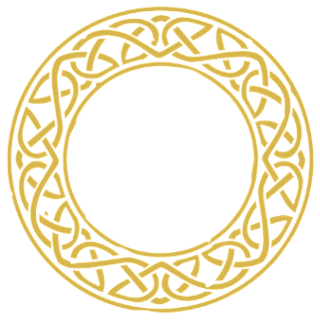
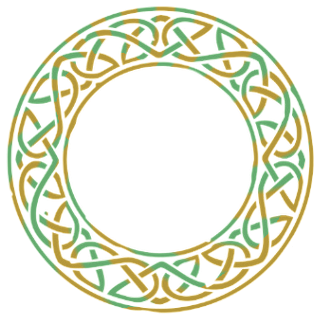
Weave light green into Celtic rings and refine the Shows mug clink.

Changed region(s): [[0.0, 0.0, 1.0, 1.0]]

diff --git a/src/index.css b/src/index.css
@@ -884,36 +884,57 @@ select {
 
 .shows-cheers {
   position: absolute;
-  top: 0.75rem;
-  left: clamp(0.5rem, 2vw, 1.5rem);
+  top: clamp(6.5rem, 14vh, 9.5rem);
+  left: clamp(0.35rem, 1.5vw, 1.25rem);
   z-index: 2;
   display: flex;
   align-items: flex-end;
-  gap: 0.15rem;
-  width: clamp(7.5rem, 16vw, 10.5rem);
+  justify-content: center;
+  gap: 0;
+  width: clamp(11.5rem, 24vw, 16.5rem);
   pointer-events: none;
 }
 
 .shows-cheers__mug {
-  width: 48%;
+  width: 52%;
   height: auto;
   display: block;
-  filter: drop-shadow(0 6px 12px rgba(0, 0, 0, 0.35));
-  transform-origin: bottom center;
+  filter: drop-shadow(0 8px 16px rgba(0, 0, 0, 0.4));
+  will-change: transform;
 }
 
 .shows-cheers__mug--left {
-  animation: mug-clink-left 2.8s ease-in-out infinite;
+  transform-origin: 70% 90%;
+  margin-right: -0.35rem;
+  animation: mug-clink-left 3.6s cubic-bezier(0.45, 0.05, 0.25, 1) infinite;
 }
 
 .shows-cheers__mug--right {
-  animation: mug-clink-right 2.8s ease-in-out infinite;
+  transform-origin: 30% 90%;
+  margin-left: -0.35rem;
+  animation: mug-clink-right 3.6s cubic-bezier(0.45, 0.05, 0.25, 1) infinite;
 }
 
 .shows-page > .page-hero,
 .shows-page > .section {
   position: relative;
   z-index: 1;
+}
+
+@media (max-width: 700px) {
+  .shows-cheers {
+    top: clamp(5.5rem, 12vh, 7.5rem);
+    width: clamp(9.5rem, 42vw, 12.5rem);
+  }
+
+  .shows-page > .page-hero {
+    padding-left: clamp(10rem, 48vw, 13rem);
+    text-align: left;
+  }
+
+  .shows-page > .page-hero .gold-rule--center {
+    margin-left: 0;
+  }
 }
 
 .shows-list {
@@ -1508,33 +1529,41 @@ select {
 
 @keyframes mug-clink-left {
   0%,
+  18% {
+    transform: rotate(-14deg) translate3d(0, 0, 0);
+  }
+  42% {
+    transform: rotate(-3deg) translate3d(8%, -2%, 0);
+  }
+  50% {
+    transform: rotate(1deg) translate3d(12%, -3%, 0);
+  }
+  58% {
+    transform: rotate(-2deg) translate3d(7%, -1%, 0);
+  }
+  72%,
   100% {
-    transform: rotate(-18deg) translateX(0);
-  }
-  40% {
-    transform: rotate(-4deg) translateX(6%);
-  }
-  48% {
-    transform: rotate(2deg) translateX(10%);
-  }
-  56% {
-    transform: rotate(-6deg) translateX(4%);
+    transform: rotate(-14deg) translate3d(0, 0, 0);
   }
 }
 
 @keyframes mug-clink-right {
   0%,
+  18% {
+    transform: rotate(14deg) translate3d(0, 0, 0);
+  }
+  42% {
+    transform: rotate(3deg) translate3d(-8%, -2%, 0);
+  }
+  50% {
+    transform: rotate(-1deg) translate3d(-12%, -3%, 0);
+  }
+  58% {
+    transform: rotate(2deg) translate3d(-7%, -1%, 0);
+  }
+  72%,
   100% {
-    transform: rotate(18deg) translateX(0);
-  }
-  40% {
-    transform: rotate(4deg) translateX(-6%);
-  }
-  48% {
-    transform: rotate(-2deg) translateX(-10%);
-  }
-  56% {
-    transform: rotate(6deg) translateX(-4%);
+    transform: rotate(14deg) translate3d(0, 0, 0);
   }
 }
 

diff --git a/src/pages/Home.tsx b/src/pages/Home.tsx
@@ -44,7 +44,7 @@ export function Home() {
           <div className="celtic-links" aria-label="Quick links">
             <Link to="/shows" className="celtic-link">
               <img
-                src={`${import.meta.env.BASE_URL}celtic-ring-gold.png`}
+                src={`${import.meta.env.BASE_URL}celtic-ring-weave.png`}
                 alt=""
                 className="celtic-link__ring"
                 width={320}
@@ -58,7 +58,7 @@ export function Home() {
             </Link>
             <Link to="/epk" className="celtic-link">
               <img
-                src={`${import.meta.env.BASE_URL}celtic-ring-gold.png`}
+                src={`${import.meta.env.BASE_URL}celtic-ring-weave.png`}
                 alt=""
                 className="celtic-link__ring"
                 width={320}
@@ -78,7 +78,7 @@ export function Home() {
               aria-label="Facebook"
             >
               <img
-                src={`${import.meta.env.BASE_URL}celtic-ring-gold.png`}
+                src={`${import.meta.env.BASE_URL}celtic-ring-weave.png`}
                 alt=""
                 className="celtic-link__ring"
                 width={320}
@@ -94,7 +94,7 @@ export function Home() {
               aria-label="Instagram"
             >
               <img
-                src={`${import.meta.env.BASE_URL}celtic-ring-gold.png`}
+                src={`${import.meta.env.BASE_URL}celtic-ring-weave.png`}
                 alt=""
                 className="celtic-link__ring"
                 width={320}
@@ -110,7 +110,7 @@ export function Home() {
               aria-label="YouTube"
             >
               <img
-                src={`${import.meta.env.BASE_URL}celtic-ring-gold.png`}
+                src={`${import.meta.env.BASE_URL}celtic-ring-weave.png`}
                 alt=""
                 className="celtic-link__ring"
                 width={320}
@@ -126,7 +126,7 @@ export function Home() {
               aria-label="Spotify"
             >
               <img
-                src={`${import.meta.env.BASE_URL}celtic-ring-gold.png`}
+                src={`${import.meta.env.BASE_URL}celtic-ring-weave.png`}
                 alt=""
                 className="celtic-link__ring"
                 width={320}

diff --git a/src/components/CelticButton.tsx b/src/components/CelticButton.tsx
@@ -17,7 +17,7 @@ function RingLabel({ children }: { children: ReactNode }) {
   return (
     <>
       <img
-        src={`${import.meta.env.BASE_URL}celtic-ring-gold.png`}
+        src={`${import.meta.env.BASE_URL}celtic-ring-weave.png`}
         alt=""
         className="celtic-link__ring"
         width={320}